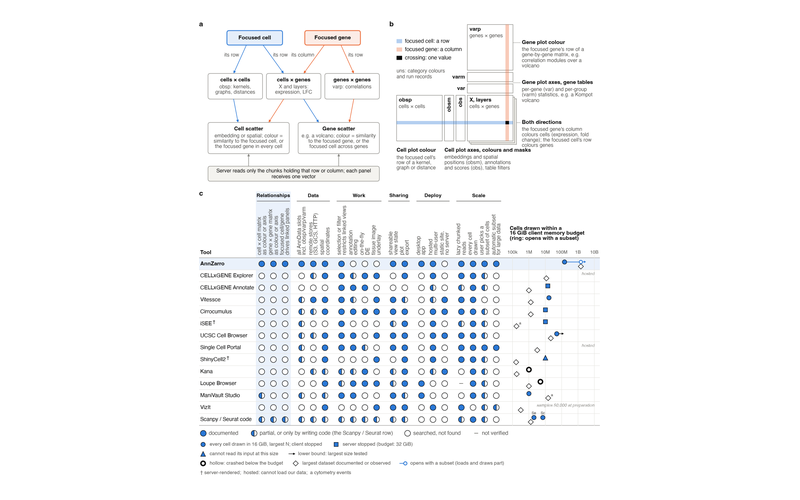
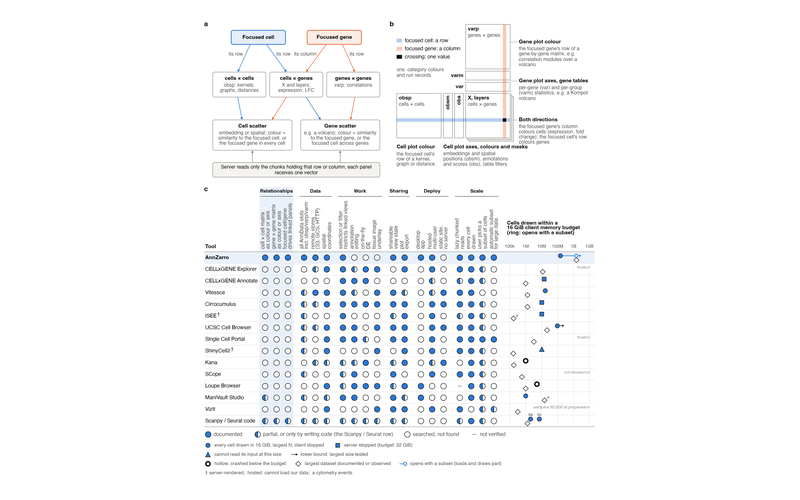
Overview: SCope joins Fig. 1c, 14 tools in 15 rows
The figure is rebuilt from annzarro-paper 153de66, where SCope 1.8.2 is
row 11, after Kana. The alt text and the panel c text count 14 tools in 15
rows. The Cells strip shows SCope's observed size, 567,950 cells in the Fly
Cell Atlas session, because it is not measured yet; no ceiling is stated.

Claude-Session: https://claude.ai/code/session_01JcY7z1g7hK9A5dKMyEtwQY

Changed region(s): [[0.25, 0.03, 0.75, 0.96], [0.5312, 0.9, 0.625, 0.93], [0.6875, 0.66, 0.7188, 0.69]]

diff --git a/docs/paper/overview.md b/docs/paper/overview.md
@@ -1,7 +1,7 @@
 # Overview: focus model, slots and comparison
 
 ```{figure} ../_static/figures/paper/overview.png
-:alt: Three panels. a, the focus model: the focused cell selects its row of cells x cells (obsp) and of cells x genes (X and layers), the focused gene its column of cells x genes and its row of genes x genes (varp); each colours a cell or gene scatter, and the server reads only the chunks of that row or column. b, the AnnData slot map with the focused cell as a blue row and the focused gene as an orange column through every cell- or gene-indexed array. c, a feature table comparing AnnZarro with CELLxGENE Explorer, CELLxGENE Annotate, Vitessce, Cirrocumulus, iSEE, UCSC Cell Browser, Single Cell Portal, ShinyCell2, Kana, Loupe Browser, ManiVault Studio, VizIt and Scanpy or Seurat code, 13 tools in 14 rows, with a strip of the largest number of cells each drew within a 16 GiB client memory budget.
+:alt: Three panels. a, the focus model: the focused cell selects its row of cells x cells (obsp) and of cells x genes (X and layers), the focused gene its column of cells x genes and its row of genes x genes (varp); each colours a cell or gene scatter, and the server reads only the chunks of that row or column. b, the AnnData slot map with the focused cell as a blue row and the focused gene as an orange column through every cell- or gene-indexed array. c, a feature table comparing AnnZarro with CELLxGENE Explorer, CELLxGENE Annotate, Vitessce, Cirrocumulus, iSEE, UCSC Cell Browser, Single Cell Portal, ShinyCell2, Kana, SCope, Loupe Browser, ManiVault Studio, VizIt and Scanpy or Seurat code, 14 tools in 15 rows, with a strip of the largest number of cells each drew within a 16 GiB client memory budget.
 :width: 100%
 
 *The focus model, the AnnData slots behind it, and AnnZarro compared with other viewers*, the
@@ -145,8 +145,8 @@ outside the PCA have zero loadings and sit at the origin.
 (overview-comparison)=
 ## c · Comparison with other viewers
 
-Panel c scores 13 tools, AnnZarro included, with CELLxGENE as its two programs (Explorer and
-Annotate), against analysis code in Scanpy or Seurat as a baseline: 14 rows, one column per
+Panel c scores 14 tools, AnnZarro included, with CELLxGENE as its two programs (Explorer and
+Annotate), against analysis code in Scanpy or Seurat as a baseline: 15 rows, one column per
 capability, grouped by job. The shaded relationship columns are what
 AnnZarro adds: a stored cells × cells or genes × genes matrix becomes a colour or an axis, and
 the focused cell or gene picks which row every linked panel shows. The table also records what
@@ -156,7 +156,9 @@ Tahoe-100M of which it drew every cell within a 16 GiB client memory budget. Mos
 driven by a script; the two desktop applications, Loupe Browser and ManiVault Studio, were measured
 by hand in a desktop session on the same inputs (Loupe Browser drew every cell up to 5 million at
 5.7 GiB; at 10 million its renderer process exited when colouring by a gene). CELLxGENE Explorer,
-Single Cell Portal and VizIt were not measured and show their documented size. AnnZarro's own
+Single Cell Portal and VizIt were not measured and show their documented size. SCope is not
+measured yet; its strip shows the largest dataset observed in it, 567,950 cells in the Fly Cell
+Atlas session at scope.aertslab.org. AnnZarro's own
 measurements on Tahoe-100M are on {doc}`scale`. The panel is not an AnnZarro view and has no walkthrough here. The
 source behind every cell of the table is listed in the paper's companion repository
 (`figures/COMPARISON_NOTES.md`, checked October 2026; {ref}`paper-companion`).
